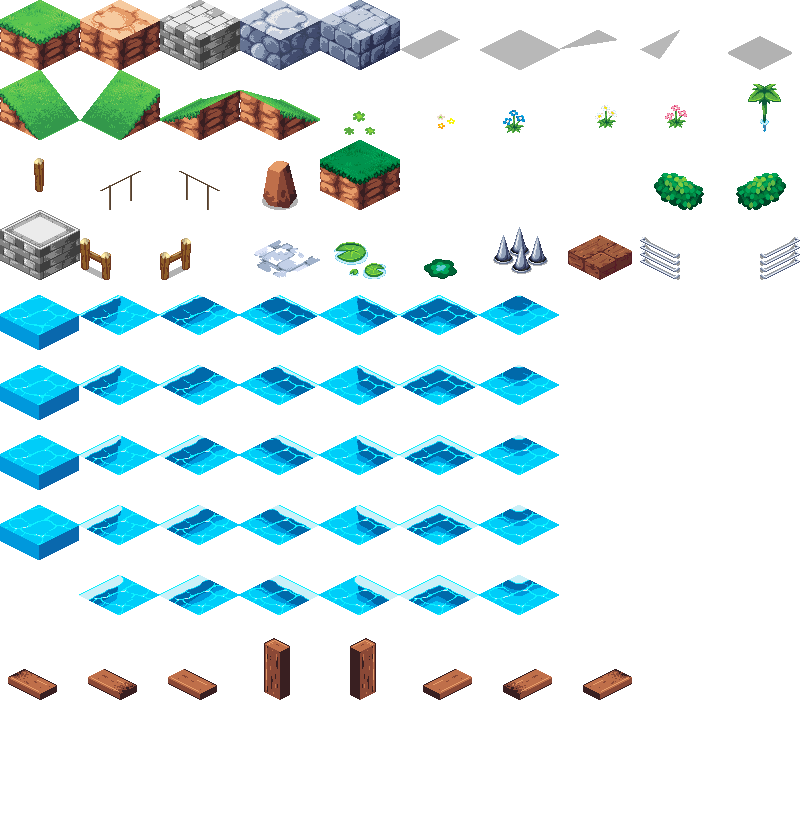
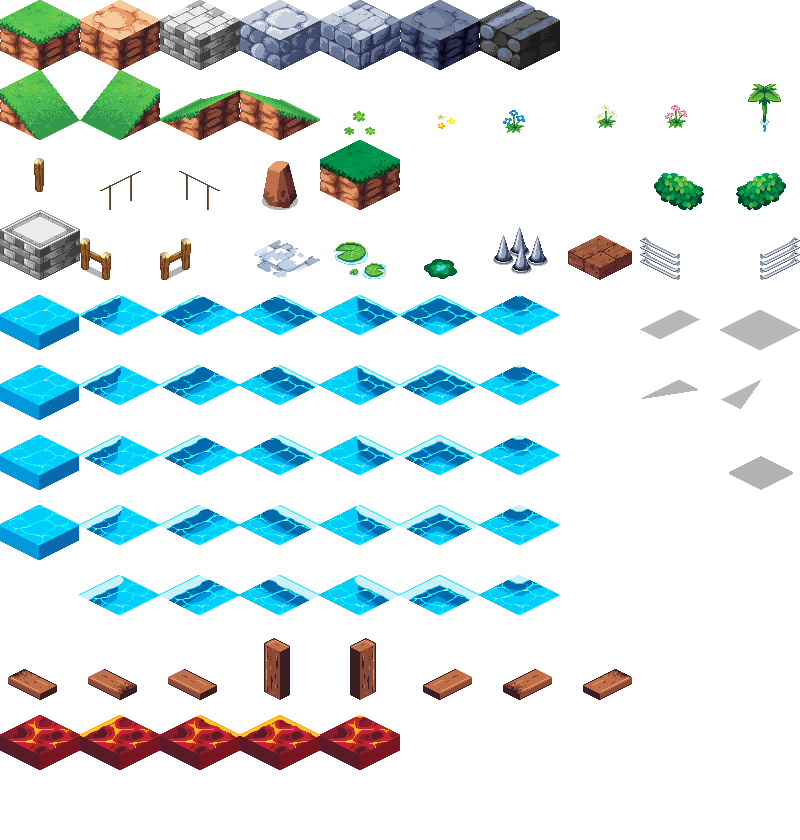
lava

diff --git a/src/entities/tiles/Lava.js b/src/entities/tiles/Lava.js
@@ -1,0 +1,56 @@
+Lava = class Lava{
+  constructor(wx, wy, x, y, z){
+    this.iso = game.add.isoSprite(x, y, z, null, 0, groups.walls);
+
+    this.iso.anchor.set(0.5);
+    game.physics.isoArcade.enable(this.iso);
+
+    this.iso.key = "lava";
+    this.iso.body.widthX = wx;
+    this.iso.body.widthY = wy;
+    this.iso.body.height = 1;
+
+    this.iso.body.immovable = true;
+    this.iso.body.allowGravity = false;
+
+    this.iso.collide = this.collide.bind(this)
+
+    this.createBubble(wx, wy, x, y, z)
+    this.createBubble(wx, wy, x, y, z)
+    this.createBubble(wx, wy, x, y, z)
+    this.createBubble(wx, wy, x, y, z)
+    this.createBubble(wx, wy, x, y, z)
+    this.createBubble(wx, wy, x, y, z)
+  }
+
+  createBubble(wx, wy, x, y, z) {
+    var x1 = randomInteger(x, (x + wx - 20))
+    var y1 = randomInteger(y, (y + wy - 20))
+    new LavaBubble(x1, y1, z)
+
+    game.time.events.add(500, () => {
+      this.createBubble(wx, wy, x, y, z)
+    })
+  }
+
+  collide(obj) {
+    if (obj.key === "player" && obj.movement !== "burning") {
+      player.die("burning")
+    }
+  }
+}
+
+class LavaBubble {
+  constructor(x, y, z) {
+    var bubble = game.add.isoSprite(x, y, z, "lavaBubble", 0, groups.objects)
+
+    bubble.anchor.set(0.5)
+
+    bubble.animations.add("default", range(0, 8), 8, false)
+    var anim = bubble.animations.play("default")
+
+    anim.onComplete.add(() => {
+      bubble.destroy()
+    })
+  }
+}

diff --git a/src/player/player.animation.js b/src/player/player.animation.js
@@ -1,8 +1,8 @@
 function playAnimation(iso) {
   var animationName = ""
 
-  if (["jump", "sprung", "skid", "bounced", "drowning", "climbing", "dismount"].includes(iso.action)) {
-    animationName = iso.action + "-" + iso.direction
+  if (["run", "walk"].includes(iso.action)) {
+    animationName = iso.action + "-" + iso.direction + iso.direction2
   }
   else if (iso.action == "hurt") {
     animationName = iso.action + "-" + iso.hurtDIR
@@ -12,7 +12,7 @@ function playAnimation(iso) {
     animationName = "dead"
   }
   else {
-    animationName = iso.action + "-" + iso.direction + iso.direction2
+    animationName = iso.action + "-" + iso.direction
   }
 
   if (animationName.includes("climbing")) {
@@ -101,6 +101,10 @@ function createAnimations(iso) {
   iso.animations.add("climbing-x",[580,581,582,583,584,585,586],16,true);
   iso.animations.add("dismount-u",[590,591,592,593,594,595,596,597,598,599],16,false);
   iso.animations.add("dismount-r",[609,608,607,606,605,604,603,602,601,600],16,false);
+  iso.animations.add("burning-l", range(610, 627), 12, false)
+  iso.animations.add("burning-d", range(649, 632), 12, false)
+  iso.animations.add("burning-u", range(650, 667), 12, false)
+  iso.animations.add("burning-r", range(689, 672), 12, false)
 
   iso.animations.add("sink-" , [168,169,170,171],10,true);
 }

diff --git a/src/states/game.assets.js b/src/states/game.assets.js
@@ -54,6 +54,8 @@ function preloadGameAssets() {
   game.load.spritesheet("tiles", "assets/tiles/tiles.png",80,70);
   game.load.spritesheet("walls", "assets/tiles/walls.png",80,220);
   game.load.spritesheet("waterfall", "assets/tiles/waterfall.png",41,199);
+  game.load.spritesheet("lavaBubble", "assets/tiles/lava-bubble.png",30,33);
+  game.load.image("crystal", "assets/tiles/crystal.png")
   game.load.image("tree", "assets/tiles/tree.png")
 
   //  Maps
@@ -63,4 +65,6 @@ function preloadGameAssets() {
   game.load.json("WildWoodland-Block2", "assets/maps/WildWoodland-Block2.json")
   game.load.json("WildWoodland-Block3", "assets/maps/WildWoodland-Block3.json")
   game.load.json("WildWoodland-Block4", "assets/maps/WildWoodland-Block4.json")
+
+  game.load.json("CoolCavern-Block1", "assets/maps/CoolCavern-Block1.json")
 }

diff --git a/src/entities/gimmicks/Rafts.js b/src/entities/gimmicks/Rafts.js
@@ -11,7 +11,7 @@ Rafts = class Rafts {
 
   createRaft(x, y, z) {
     var tileId = this.axis === "x" ? 0 : 1
-    var raft = game.add.isoSprite(x, y, z - 50, "raft", tileId, groups.objects)
+    var raft = game.add.isoSprite(x, y, z - 48, "raft", tileId, groups.objects)
 
     raft.anchor.set(0.5)
 
@@ -22,6 +22,7 @@ Rafts = class Rafts {
 
     raft.body.widthX = this.axis === "y" ? 60 : 100
     raft.body.widthY = this.axis === "y" ? 100 : 60
+    raft.body.height = 8
     raft.pivot.x = this.axis === "y" ? 20 : - 20
     raft.body.velocity[this.axis] = 50
 

diff --git a/src/player/player.js b/src/player/player.js
@@ -80,7 +80,8 @@ Player = class Player {
 		// });
 
 		game.physics.isoArcade.collide(player.iso, groups.walls, function(obj1, obj2){
-      obj1.collide(obj2);
+			obj1.collide(obj2);
+			if (obj2.collide) obj2.collide(obj1)
     });
 
 		game.physics.isoArcade.overlap(player.iso, groups.walls, function(obj1, obj2){
@@ -355,6 +356,10 @@ Player = class Player {
 			this.iso.movement = "dead";
 
 			Sounds.Hurt.play()
+		}
+
+		if (causeOfDeath === "burning") {
+			this.iso.movement = "burning"
 		}
 
 		if (causeOfDeath === "drowning") {

diff --git a/src/entities/Prop.js b/src/entities/Prop.js
@@ -50,6 +50,16 @@ Prop = class Prop {
       this.iso.pivot.y = 20;
     }
 
+    if (obj.type === "Crystal") {
+      this.iso = game.add.isoSprite(x, y, z, "crystal", 0, groups.objects);
+
+      game.physics.isoArcade.enable(this.iso);
+
+      this.iso.body.widthX = 40;
+      this.iso.body.widthY = 40;
+      this.iso.body.height = 80;
+    }
+
     this.iso.key = "prop"
     this.iso.anchor.set(0.5);
     this.iso.body.immovable = true;

diff --git a/src/ui/Background.js b/src/ui/Background.js
@@ -1,0 +1,15 @@
+class Background {
+  constructor(level) {
+    if (level.backgroundcolor) {
+      var bg = game.add.graphics(0, 0, groups.ui)
+      bg.beginFill(level.backgroundcolor);
+      bg.drawRect(0, 0, 400, 240)
+      bg.endFill()
+      bg.alpha = 0
+      bg.fixedToCamera = true
+    } else {
+      var background = game.add.sprite(0, 0, "blueSky", 0, groups.backdrop)
+      background.fixedToCamera = true
+    }
+  }
+}

diff --git a/src/level/level.js b/src/level/level.js
@@ -10,8 +10,7 @@ function loadLevel() {
   var levelHeight = level.height * TILE_WIDTH * 2
   game.world.setBounds(0, 0, levelWidth, levelHeight)
 
-  var background = game.add.sprite(0, 0, "blueSky", 0, groups.backdrop)
-  background.fixedToCamera = true
+  new Background(level)
 
   level.layers.forEach((layer) => {
     if (layer.type === "tilelayer") {

diff --git a/src/entities/tiles/Water.js b/src/entities/tiles/Water.js
@@ -20,7 +20,7 @@ WaterBorder = class WaterBorder{
     this.iso.anchor.set(0.5);
     game.physics.isoArcade.enable(this.iso);
 
-    this.iso.key = "floor";
+    this.iso.key = "water";
     this.iso.body.widthX = wx;
     this.iso.body.widthY = wy;
     this.iso.body.height = 1;

diff --git a/src/player/player.moves.js b/src/player/player.moves.js
@@ -1,6 +1,6 @@
 function playerMoves() {
 
-  if (player.iso.movement === "drowning") {
+  if (player.iso.movement === "drowning" || player.iso.movement === "burning") {
     player.iso.body.acceleration = {x:0,y:0,z:0};
     player.iso.body.velocity = {x:0,y:0,z:0};
   }

diff --git a/src/utils/range.js b/src/utils/range.js
@@ -1,0 +1,16 @@
+function range(start, end) {
+  var array = []
+
+  if (start < end) {
+    for (var i = start; i <= end; i++) {
+      array.push(i)
+    }
+  }
+  else {
+    for (var i = start; i >= end; i--) {
+      array.push(i)
+    }
+  }
+
+  return array
+}

diff --git a/src/globals.js b/src/globals.js
@@ -1,6 +1,6 @@
 var player
 var stateParams = {
-  activeLevel: "WildWoodland-Block4",
+  activeLevel: "CoolCavern-Block1",
   displayTitle: true,
 }
 var currentTrack = ""
